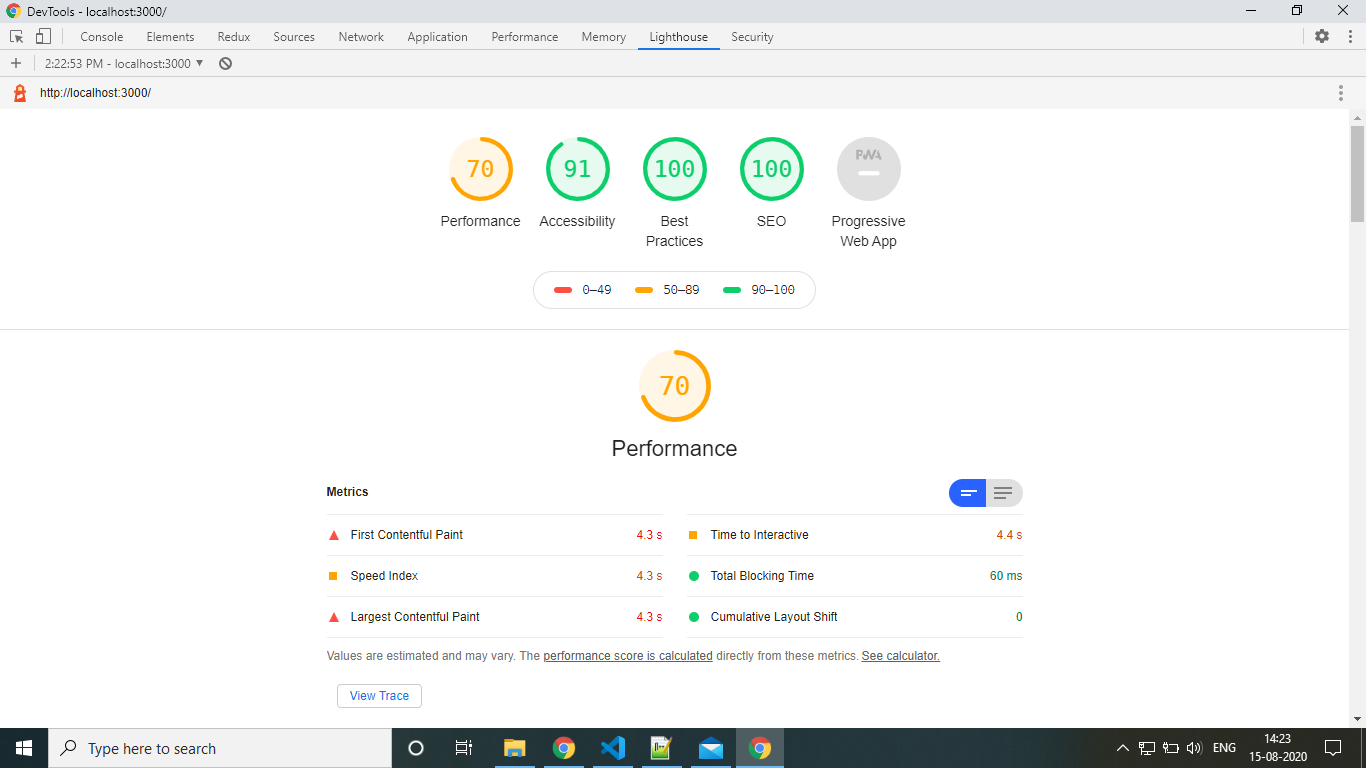
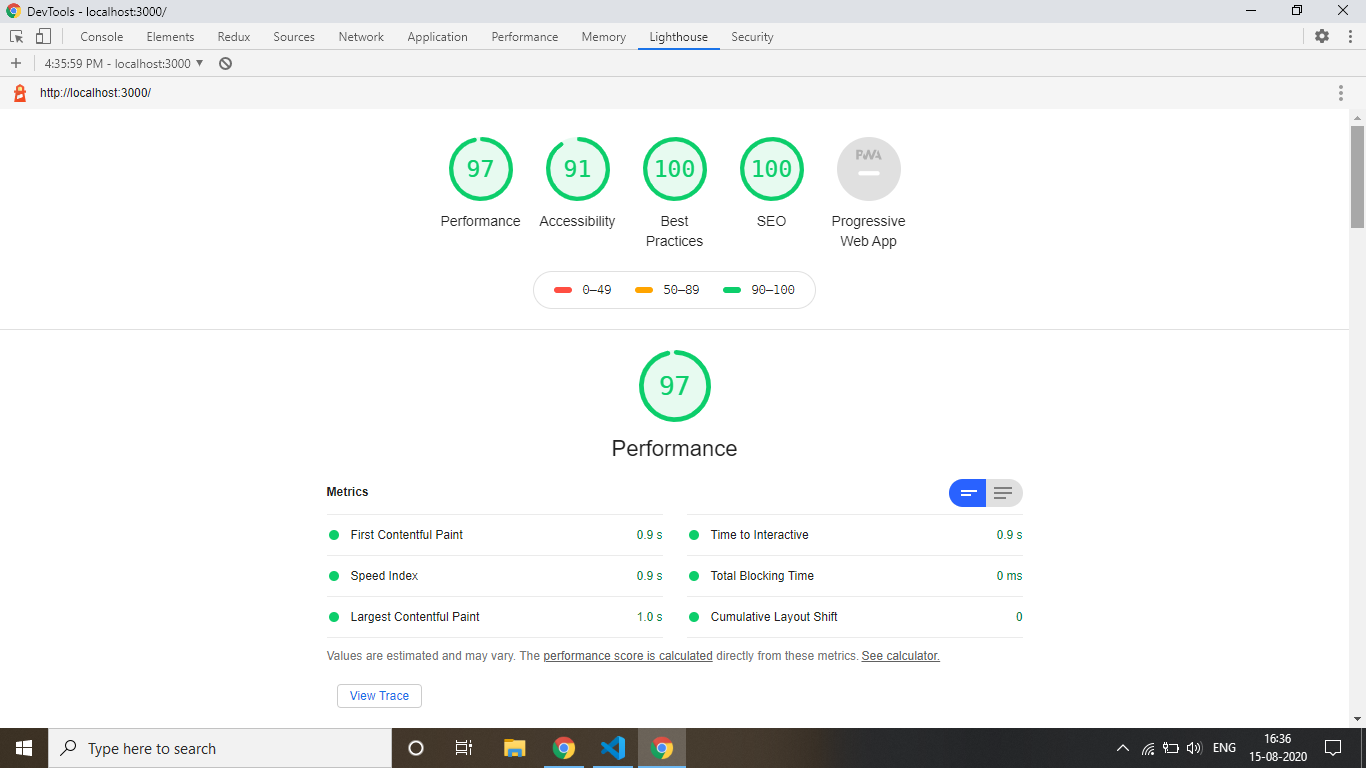
improved lighthouse performance

diff --git a/src/App.js b/src/App.js
@@ -1,10 +1,10 @@
-import React, { useState, useEffect, useCallback } from "react";
+import React, { useState, useEffect, useCallback, Suspense } from "react";
 import { withRouter } from "react-router-dom";
 import "assets/scss/app.scss";
-
-import FilterBox from "components/FilterBox";
 import SpaceXWidget from "components/SpaceXWidget";
 import { getQueryString } from "Helper";
+
+const FilterBox = React.lazy(() => import("components/FilterBox"));
 
 const BASE_API = 'https://api.spaceXdata.com/v3/launches?limit=100'
 
@@ -51,28 +51,30 @@ function App(props) {
   }
 
   return (
-    <div className="application-container pa10">
-      <div className="an-18 bold-text pb10">SpaceX Launch Program</div>
-      <div className="flex-x spaceX-container">
-        <FilterBox
-          onLaunchSuccessClick={onLaunchSuccessClick}
-          onLandSuccessClick={onLandSuccessClick}
-          onYearClick={onYearClick}
-        />
-        <div className="space-widgets-container flex-1 pl10">
-          {
-            !loading ?
-            data.length ?  
-            data.map((d, i) => (<SpaceXWidget key={i} data={d} />)) :
-            <div className="text-center">No Mission Found !!!</div>:
-            <div className="text-center">Getting data please wait...</div>
-          }
+    <main className="application-container pa10">
+      <Suspense fallback={<h1>Loading…</h1>}>
+        <div className="an-18 bold-text pb10">SpaceX Launch Program</div>
+        <div className="flex-x spaceX-container">
+          <FilterBox
+            onLaunchSuccessClick={onLaunchSuccessClick}
+            onLandSuccessClick={onLandSuccessClick}
+            onYearClick={onYearClick}
+          />
+          <div className="space-widgets-container flex-1 pl10">
+            {
+              !loading ?
+                data.length ?
+                  data.map((d, i) => (<SpaceXWidget key={i} data={d} />)) :
+                  <div className="text-center">No Mission Found !!!</div> :
+                <div className="text-center">Getting data please wait...</div>
+            }
+          </div>
         </div>
-      </div>
-      <div className="text-center py10">
-        <strong>Develop by:</strong> <span>Shekhar Raval</span>
-      </div>
-    </div>
+        <div className="text-center py10">
+          <strong>Develop by:</strong> <span>Shekhar Raval</span>
+        </div>
+      </Suspense>
+    </main>
   )
 }
 

diff --git a/public/index.html b/public/index.html
@@ -8,20 +8,8 @@
   <meta name="theme-color" content="#000000" />
   <meta name="description" content="Space-X api integration" />
   <link rel="apple-touch-icon" href="%PUBLIC_URL%/logo192.png" />
-  <!--
-      manifest.json provides metadata used when your web app is installed on a
-      user's mobile device or desktop. See https://developers.google.com/web/fundamentals/web-app-manifest/
-    -->
   <link rel="manifest" href="%PUBLIC_URL%/manifest.json" />
-  <!--
-      Notice the use of %PUBLIC_URL% in the tags above.
-      It will be replaced with the URL of the `public` folder during the build.
-      Only files inside the `public` folder can be referenced from the HTML.
-
-      Unlike "/favicon.ico" or "favicon.ico", "%PUBLIC_URL%/favicon.ico" will
-      work correctly both with client-side routing and a non-root public URL.
-      Learn how to configure a non-root public URL by running `npm run build`.
-    -->
+  <link rel="preconnect" href="/">
   <title>Space-X</title>
 </head>
 

diff --git a/src/components/FilterBox.jsx b/src/components/FilterBox.jsx
@@ -2,12 +2,10 @@ import React from "react";
 import { withRouter } from 'react-router-dom';
 import { getQueryObj } from "Helper";
 
-const FilterBox = (props) => {
+const FilterBox = React.memo((props) => {
   const { location: { search } } = props;
   const params = search.split('?')[1];
   const data = params ? getQueryObj(params) : null;
-  console.log('DATA', data, params);
-  console.log(data);
   const years = [2006, 2007, 2008, 2009, 2010, 2011, 2012, 2013, 2014, 2015, 2016, 2017, 2018, 2019];
   return (
     <div className="filter__box fill-height">
@@ -59,6 +57,6 @@ const FilterBox = (props) => {
       </div>
     </div >
   )
-}
+});
 
 export default withRouter(FilterBox);

diff --git a/src/components/SpaceXWidget.jsx b/src/components/SpaceXWidget.jsx
@@ -4,7 +4,7 @@ const SpaceXWidget = ({ data }) => {
   return (
     <div className="spaceX__widget">
       <div className="spaceX_image">
-        <img src={data.links.mission_patch} alt="" />
+        <img src={data.links.mission_patch} alt="space_logo" />
       </div>
       <div className="spaceX__title an-16 medium-text primary--text py10">
         {data.mission_name} {`#${data.flight_number}`}
